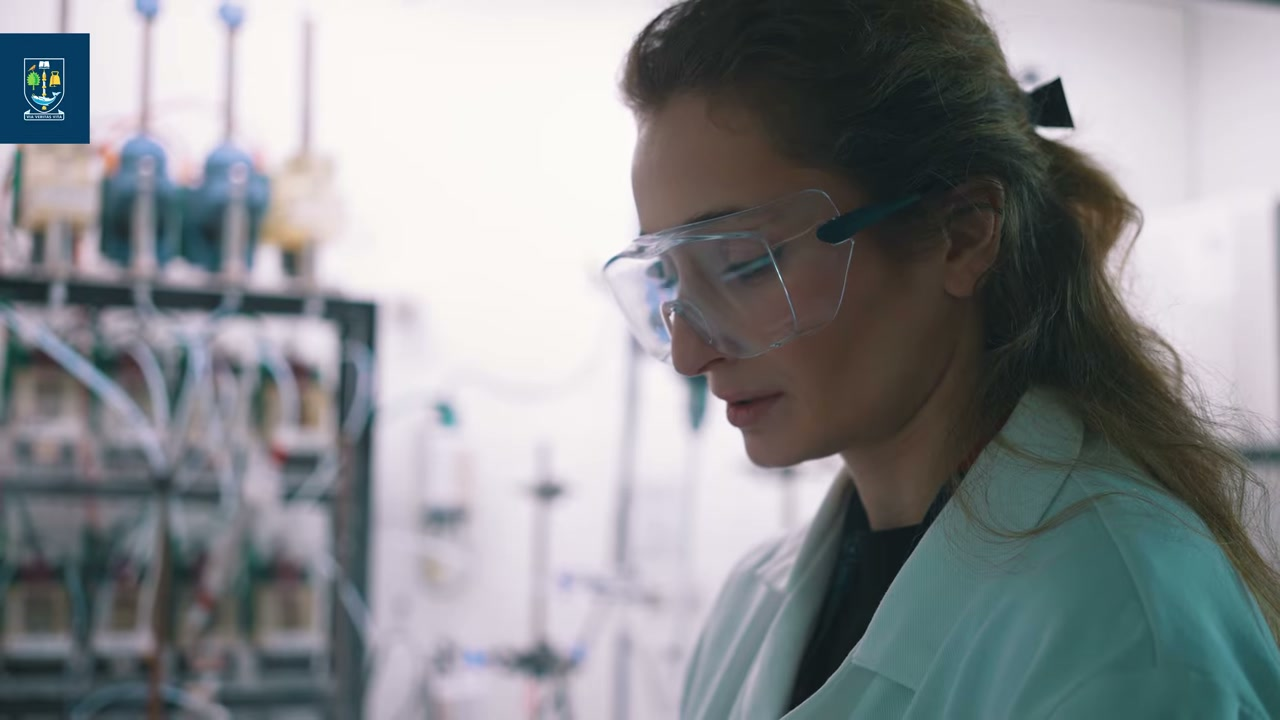
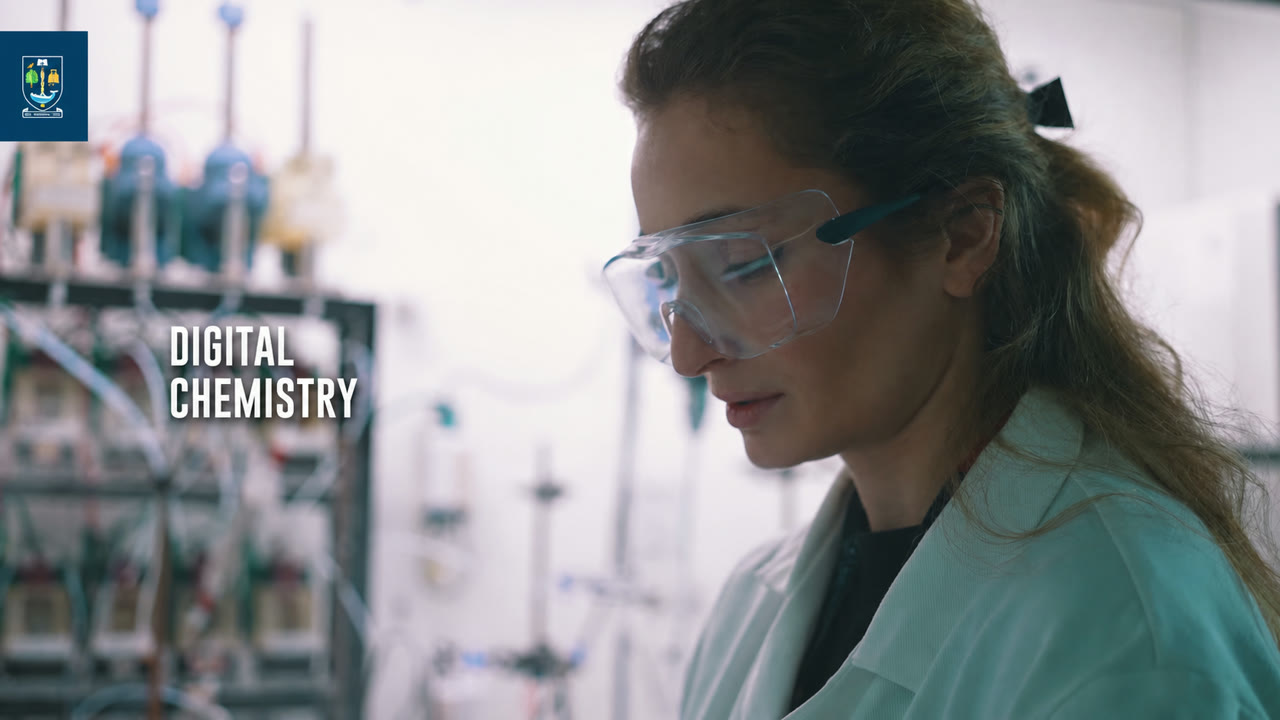
Add title to video cover

diff --git a/index.html b/index.html
@@ -185,7 +185,7 @@
                 aria-label="Play Pushing the Boundaries of Digital Chemistry"
               >
                 <img
-                  src="assets/video/digital-chemistry-preview.jpg"
+                  src="assets/video/digital-chemistry-preview.jpg?v=2"
                   alt=""
                   width="1280"
                   height="720"
